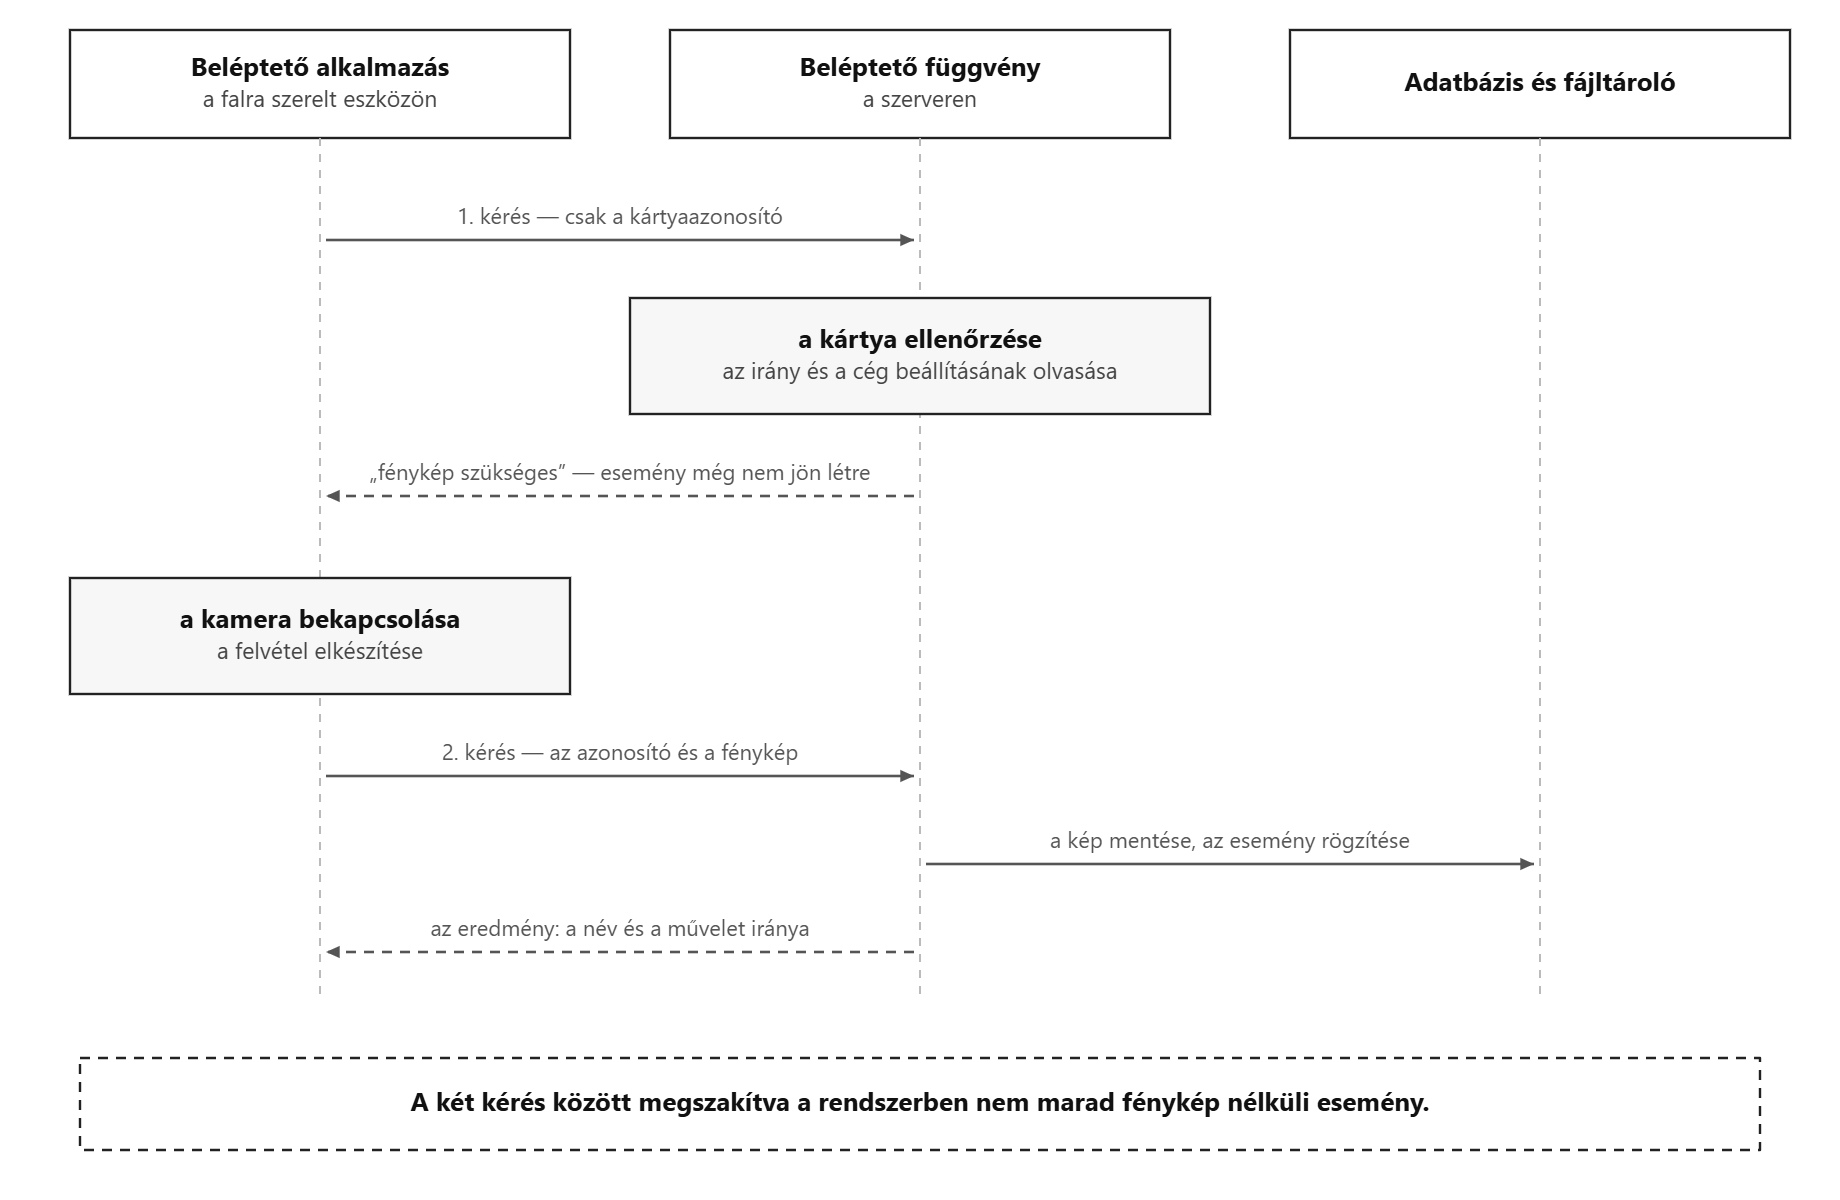
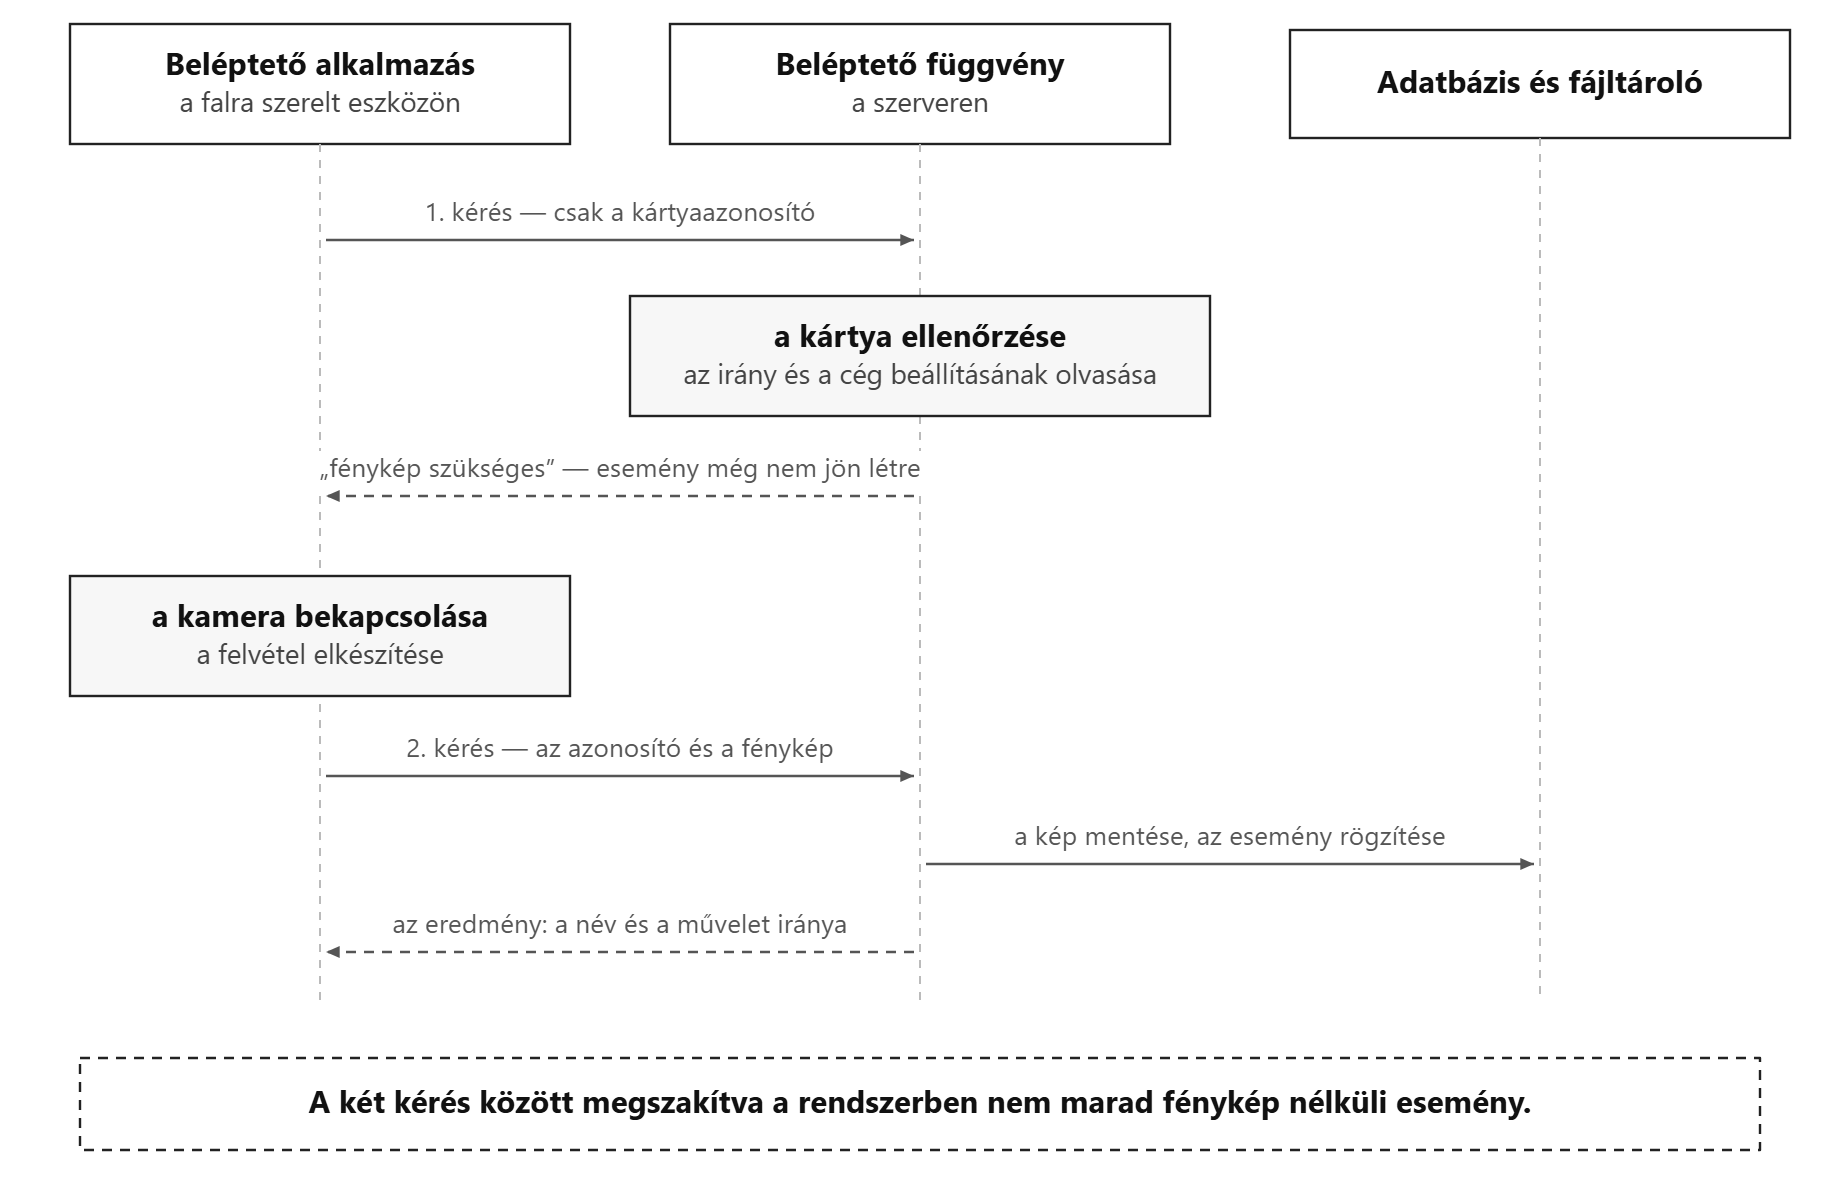
Refactor code structure for improved readability and maintainability

diff --git a/thesis/figures/abrak.html b/thesis/figures/abrak.html
@@ -63,9 +63,17 @@
 // pixelek viszont megmaradnak, így nyomtatásban is éles.
 const SCALE = 2
 
-const TITLE_H = 17   // a címsor sormagassága
-const LINE_H  = 15   // az alsorok sormagassága
-const PAD_Y   = 22   // a szövegblokk fölött-alatt hagyott hely
+// A feliratok nagyítása. A képek a dokumentumba 17 cm szélességre kicsinyítve
+// kerülnek be, ezért a betűméret NEM a képpont-méretén, hanem a képhez mért
+// arányán múlik: a rajz szélessége változatlan, csak a szöveg lesz nagyobb.
+// A dobozok magassága ezt automatikusan követi (lásd box()), a nyilak
+// végpontjai pedig a dobozok tényleges széléhez igazodnak.
+const FS  = 1.2
+const fpx = n => +(n * FS).toFixed(1)
+
+const TITLE_H = Math.round(17 * FS)   // a címsor sormagassága
+const LINE_H  = Math.round(15 * FS)   // az alsorok sormagassága
+const PAD_Y   = 22                    // a szövegblokk fölött-alatt hagyott hely
 
 function setup(id, w, h) {
   const cv = document.getElementById(id)
@@ -110,13 +118,13 @@ function box(x, cx, cy, w, h, title, lines = [], opts = {}) {
   x.textAlign = 'center'
   let y = cy - blockH / 2 + TITLE_H / 2
   x.fillStyle = '#111'
-  x.font = fit(x, title, inner, 'bold 13px system-ui, sans-serif', 10)
+  x.font = fit(x, title, inner, `bold ${fpx(13)}px system-ui, sans-serif`, 10)
   x.fillText(title, cx, y)
 
   x.fillStyle = '#444'
   y += TITLE_H / 2 + LINE_H / 2
   lines.forEach((s, i) => {
-    x.font = fit(x, s, inner, '11.5px system-ui, sans-serif', 9)
+    x.font = fit(x, s, inner, `${fpx(11.5)}px system-ui, sans-serif`, 9)
     x.fillText(s, cx, y + i * LINE_H)
   })
   return { l, t, w, h, cx, cy, r: l + w, b: t + h }
@@ -167,13 +175,17 @@ function path(x, pts, label, opts = {}) {
   }
 }
 
+// A felirat mögé tett fehér folt magassága a betűmérettel együtt nő, különben
+// a nagyobb szöveg kilógna a takarásból.
+const LABEL_H = Math.round(16 * FS)
+
 function flush(x) {
-  x.font = '11px system-ui, sans-serif'
+  x.font = `${fpx(11)}px system-ui, sans-serif`
   x.textAlign = 'center'
   for (const [t, mx, my] of PENDING) {
     const w = x.measureText(t).width
     x.fillStyle = '#fff'
-    x.fillRect(mx - w / 2 - 4, my - 8, w + 8, 16)
+    x.fillRect(mx - w / 2 - 4, my - LABEL_H / 2, w + 8, LABEL_H)
     x.fillStyle = '#666'
     x.fillText(t, mx, my)
   }
@@ -183,71 +195,81 @@ function flush(x) {
 // A rétegcímkék a bal margón állnak, ahol nyíl is futhat: ezért fehér
 // hátteret kapnak, és minden vonal után rajzoljuk őket.
 function layer(x, text, y) {
-  x.font = '11px system-ui, sans-serif'
+  x.font = `${fpx(11)}px system-ui, sans-serif`
   x.textAlign = 'left'
   const w = x.measureText(text).width
   x.fillStyle = '#fff'
-  x.fillRect(28, y - 8, w + 8, 16)
+  x.fillRect(28, y - LABEL_H / 2, w + 8, LABEL_H)
   x.fillStyle = '#888'
   x.fillText(text, 30, y)
 }
 
 // ── 1. ábra ────────────────────────────────────────────────────────────────
 ;(function () {
-  const W = 960, H = 620
+  const W = 960, H = 630
   const x = setup('c1', W, H)
 
-  // Kliens réteg
-  box(x, 160, 96, 240, 76, 'Beléptető alkalmazás',
-      ['kioszk, falra szerelve', 'NFC-olvasás, fénykép'])
-  box(x, 480, 96, 240, 76, 'Dolgozói alkalmazás',
-      ['mobiltelefon', 'PIN-belépés, kérelmek'])
-  box(x, 800, 96, 240, 76, 'Vezetői felület',
-      ['asztali böngésző', 'kimutatások, beállítások'])
+  // A dobozok magassága a bennük álló szöveg mennyiségéből adódik (lásd box()),
+  // ezért a nyilak végpontjai NEM beírt számok, hanem a visszakapott téglalapok
+  // szélei. Így a feliratok nagyításakor a rajz nem esik szét.
 
-  box(x, 160, 200, 220, 56, 'Helyi tároló (IndexedDB)',
-      ['névjegyzék + függő események'], { dashed: true })
+  // Kliens réteg
+  const kiosk  = box(x, 160, 100, 240, 76, 'Beléptető alkalmazás',
+                     ['kioszk, falra szerelve', 'NFC-olvasás, fénykép'])
+  const worker = box(x, 480, 100, 240, 76, 'Dolgozói alkalmazás',
+                     ['mobiltelefon', 'PIN-belépés, kérelmek'])
+  const admin  = box(x, 800, 100, 240, 76, 'Vezetői felület',
+                     ['asztali böngésző', 'kimutatások, beállítások'])
+
+  const local  = box(x, 160, 200, 220, 56, 'Helyi tároló (IndexedDB)',
+                     ['névjegyzék + függő események'], { dashed: true })
 
   // Háttérrendszer
-  x.strokeStyle = '#999'; x.lineWidth = 1; x.setLineDash([6, 4])
-  x.strokeRect(30, 296, W - 60, 208)
-  x.setLineDash([])
-
-  const fn   = box(x, 144, 358, 200, 86, 'Szerveroldali függvények',
+  // A „fénykép” nyílfeliratnak a két doboz KÖZÖTT kell elférnie, ezért a
+  // középső két doboz keskenyebb: így a felirat fehér háttere nem takarja el
+  // a szomszédos doboz keretét.
+  const fn   = box(x, 144, 382, 200, 86, 'Szerveroldali függvények',
                    ['beléptetés, dolgozói adatok', 'felhasználókezelés', 'levélküldés, összefoglaló'])
-  const file = box(x, 368, 358, 200, 86, 'Fájltároló', ['ellenőrző fényképek'])
-  const auth = box(x, 592, 358, 200, 86, 'Hitelesítés', ['vezetői belépés'])
-  const rt   = box(x, 816, 358, 200, 86, 'Valós idejű csatorna', ['adatváltozás továbbítása'])
+  const file = box(x, 398, 382, 176, 86, 'Fájltároló', ['ellenőrző fényképek'])
+  const auth = box(x, 594, 382, 176, 86, 'Hitelesítés', ['vezetői belépés'])
+  const rt   = box(x, 816, 382, 200, 86, 'Valós idejű csatorna', ['adatváltozás továbbítása'])
 
-  const db = box(x, 480, 452, 872, 56, 'PostgreSQL adatbázis',
+  const db = box(x, 480, 486, 872, 56, 'PostgreSQL adatbázis',
       ['sorszintű biztonság (cégek elkülönítése) · pg_cron ütemezés'], { bold: true })
 
-  // Kliens → háttérrendszer. A két derékszögű útvonal külön magasságban fut,
+  // A háttérrendszer kerete a benne álló dobozokhoz igazodik. Csak vonal, nem
+  // takar ki semmit, ezért a dobozok után is rajzolható.
+  const F = { t: fn.t - 14, b: db.b + 14 }
+  x.strokeStyle = '#999'; x.lineWidth = 1; x.setLineDash([6, 4])
+  x.strokeRect(30, F.t, W - 60, F.b - F.t)
+  x.setLineDash([])
+
+  // Kliens → háttérrendszer. A három derékszögű útvonal külön magasságban fut,
   // így sehol nem keresztezik egymást.
-  path(x, [[160, 134], [160, 172]])
-  // A felirat feljebb kerül: a szakasz közepén a „Háttérrendszer (Supabase)”
+  path(x, [[160, kiosk.b], [160, local.t]])
+  // A felirat lejjebb kerül: a szakasz közepén a „Háttérrendszer (Supabase)”
   // rétegcímke futna rá.
-  path(x, [[160, 228], [160, 315]], 'esemény', { labelDy: -26 })
-  path(x, [[480, 134], [480, 260], [200, 260], [200, 315]], 'kérelem')
-  path(x, [[760, 134], [760, 284], [230, 284], [230, 315]], 'lekérdezés')
-  path(x, [[850, 315], [850, 134]], 'értesítés', { dashed: true })
+  path(x, [[160, local.b], [160, fn.t]], 'esemény', { labelDy: 14 })
+  path(x, [[480, worker.b], [480, 276], [200, 276], [200, fn.t]], 'kérelem')
+  path(x, [[760, admin.b], [760, 300], [230, 300], [230, fn.t]], 'lekérdezés')
+  path(x, [[850, rt.t], [850, admin.b]], 'értesítés', { dashed: true })
 
   // Háttérrendszeren belül
-  path(x, [[fn.r, 358], [file.l, 358]], 'fénykép')
-  path(x, [[144, 401], [144, 424]])
-  path(x, [[592, 401], [592, 424]])
-  path(x, [[816, 424], [816, 401]], '', { dashed: true })
+  path(x, [[fn.r, fn.cy], [file.l, fn.cy]], 'fénykép')
+  path(x, [[fn.cx, fn.b], [fn.cx, db.t]])
+  path(x, [[auth.cx, auth.b], [auth.cx, db.t]])
+  path(x, [[rt.cx, db.t], [rt.cx, rt.b]], '', { dashed: true })
 
   // Külső szolgáltatások
-  box(x, 220, 566, 240, 46, 'Nyelvi modell (Gemini)', [], { dashed: true })
-  box(x, 520, 566, 240, 46, 'Levélküldő szolgáltatás', [], { dashed: true })
-  path(x, [[220, 504], [220, 543]], '', { dashed: true })
-  path(x, [[520, 504], [520, 543]], '', { dashed: true })
+  const llm  = box(x, 220, 582, 240, 46, 'Nyelvi modell (Gemini)', [], { dashed: true })
+  const mail = box(x, 520, 582, 240, 46, 'Levélküldő szolgáltatás', [], { dashed: true })
+  path(x, [[220, F.b], [220, llm.t]], '', { dashed: true })
+  path(x, [[520, F.b], [520, mail.t]], '', { dashed: true })
 
   flush(x)
   layer(x, 'Kliens oldal', 28)
-  layer(x, 'Háttérrendszer (Supabase)', 270)
-  layer(x, 'Külső szolgáltatások', 528)
+  layer(x, 'Háttérrendszer (Supabase)', (local.b + F.t) / 2)
+  layer(x, 'Külső szolgáltatások', (F.b + llm.t) / 2)
 })()
 
 // ── Segédek a folyamatábrákhoz ─────────────────────────────────────────────
@@ -258,10 +280,10 @@ function frame(x, l, t, w, h, label) {
   x.strokeStyle = '#aaa'; x.lineWidth = 1; x.setLineDash([6, 4])
   x.strokeRect(l, t, w, h)
   x.setLineDash([])
-  x.font = 'bold 11.5px system-ui, sans-serif'
+  x.font = `bold ${fpx(11.5)}px system-ui, sans-serif`
   x.textAlign = 'left'
   const tw = x.measureText(label).width
-  x.fillStyle = '#fff'; x.fillRect(l + 12, t - 8, tw + 10, 16)
+  x.fillStyle = '#fff'; x.fillRect(l + 12, t - LABEL_H / 2, tw + 10, LABEL_H)
   x.fillStyle = '#777'; x.fillText(label, l + 17, t)
 }
 
@@ -280,14 +302,14 @@ const MSGS = []
 function msg(x, fromX, toX, y, label, opts = {}) {
   const d = Math.sign(toX - fromX)
   path(x, [[fromX + d * 3, y], [toX - d * 3, y]], null, opts)
-  if (label) MSGS.push([label, (fromX + toX) / 2, y - 11])
+  if (label) MSGS.push([label, (fromX + toX) / 2, y - Math.round(11 * FS)])
 }
 function flushMsgs(x) {
   x.textAlign = 'center'
   for (const [t, mx, my] of MSGS) {
-    x.font = fit(x, t, 300, '11px system-ui, sans-serif', 8.5)
+    x.font = fit(x, t, 330, `${fpx(11)}px system-ui, sans-serif`, 8.5)
     const w = x.measureText(t).width
-    x.fillStyle = '#fff'; x.fillRect(mx - w / 2 - 4, my - 8, w + 8, 16)
+    x.fillStyle = '#fff'; x.fillRect(mx - w / 2 - 4, my - LABEL_H / 2, w + 8, LABEL_H)
     x.fillStyle = '#555'; x.fillText(t, mx, my)
   }
   MSGS.length = 0
@@ -334,31 +356,31 @@ function flushMsgs(x) {
 
   const L = 242, R = 717                 // a két oszlop középvonala
 
-  box(x, L, 122, 330, 48, 'Kártyaérintés')
-  box(x, L, 232, 330, 70, '① A kártya felismerése',
+  const a1 = box(x, L, 122, 330, 48, 'Kártyaérintés')
+  const a2 = box(x, L, 232, 330, 70, '① A kártya felismerése',
       ['helyi névjegyzék: azonosító → név'])
-  box(x, L, 347, 330, 70, '② A művelet iránya',
+  const a3 = box(x, L, 347, 330, 70, '② A művelet iránya',
       ['a helyben tárolt utolsó irány,', 'a függő eseményekkel korrigálva'])
-  box(x, L, 477, 330, 70, '③ Az esemény megőrzése',
+  const a4 = box(x, L, 477, 330, 70, '③ Az esemény megőrzése',
       ['helyi sor: client_event_id és', 'a rögzítés tényleges időpontja'])
 
-  box(x, R, 122, 330, 54, '④ Visszajátszás', ['sorrendtartó, egyenként'])
-  box(x, R, 232, 330, 54, 'Beléptető függvény', ['a szerveren'])
-  box(x, R, 347, 330, 54, 'Egyedi index', ['a client_event_id mezőn'])
-  box(x, 630, 477, 160, 56, 'Új azonosító', ['az esemény rögzül'])
-  box(x, 804, 477, 160, 56, 'Ütközés', ['már megvan — siker'])
+  const b1 = box(x, R, 122, 330, 54, '④ Visszajátszás', ['sorrendtartó, egyenként'])
+  const b2 = box(x, R, 232, 330, 54, 'Beléptető függvény', ['a szerveren'])
+  const b3 = box(x, R, 347, 330, 54, 'Egyedi index', ['a client_event_id mezőn'])
+  const b4 = box(x, 630, 477, 160, 56, 'Új azonosító', ['az esemény rögzül'])
+  const b5 = box(x, 804, 477, 160, 56, 'Ütközés', ['már megvan — siker'])
 
-  path(x, [[L, 146], [L, 197]])
-  path(x, [[L, 267], [L, 312]])
-  path(x, [[L, 382], [L, 442]])
+  path(x, [[L, a1.b], [L, a2.t]])
+  path(x, [[L, a2.b], [L, a3.t]])
+  path(x, [[L, a3.b], [L, a4.t]])
   // A két csoportot összekötő út a keretek KÖZÖTT fut fel, hogy egyetlen
   // dobozt se metsszen: a doboz széléről indul és a doboz széléig tart.
-  path(x, [[407, 477], [480, 477], [480, 122], [552, 122]])
+  path(x, [[a4.r, a4.cy], [480, a4.cy], [480, b1.cy], [b1.l, b1.cy]])
 
-  path(x, [[R, 149], [R, 205]])
-  path(x, [[R, 259], [R, 320]])
-  path(x, [[R, 374], [R, 420], [630, 420], [630, 449]], 'új')
-  path(x, [[R, 374], [R, 420], [804, 420], [804, 449]], 'ütközés')
+  path(x, [[R, b1.b], [R, b2.t]])
+  path(x, [[R, b2.b], [R, b3.t]])
+  path(x, [[R, b3.b], [R, 420], [630, 420], [630, b4.t]], 'új')
+  path(x, [[R, b3.b], [R, 420], [804, 420], [804, b5.t]], 'ütközés')
 
   flush(x)
 
@@ -381,14 +403,14 @@ function flushMsgs(x) {
     x.strokeRect(l, t, w, h)
     x.beginPath(); x.moveTo(l, t + 26); x.lineTo(l + w, t + 26); x.stroke()
     x.textAlign = 'center'; x.fillStyle = '#111'
-    x.font = fit(x, title, w - 20, 'bold 12.5px system-ui, sans-serif', 10)
+    x.font = fit(x, title, w - 20, `bold ${fpx(12.5)}px system-ui, sans-serif`, 10)
     x.fillText(title, cx, t + 13)
     x.textAlign = 'left'
     cols.forEach((c, i) => {
       const key = c.startsWith('#')
       const txt = key ? c.slice(1) : c
       x.fillStyle = key ? '#111' : '#444'
-      x.font = fit(x, txt, w - 20, (key ? 'bold ' : '') + '11px ui-monospace, Consolas, monospace', 8.5)
+      x.font = fit(x, txt, w - 20, (key ? 'bold ' : '') + `${fpx(11)}px ui-monospace, Consolas, monospace`, 8.5)
       x.fillText(txt, l + 10, t + 26 + 12 + i * rowH)
     })
     return { l, t, w, h, cx, cy, r: l + w, b: t + h }
@@ -421,7 +443,7 @@ function flushMsgs(x) {
   link(absences, notifications, 'trigger')
   flush(x)
 
-  x.font = '11px system-ui, sans-serif'; x.fillStyle = '#666'; x.textAlign = 'left'
+  x.font = `${fpx(11)}px system-ui, sans-serif`; x.fillStyle = '#666'; x.textAlign = 'left'
   x.fillText('Minden tábla hordozza a company_id oszlopot — erre épül a cégek elkülönítése.', 30, 490)
   x.fillText('A → jel idegen kulcsot jelöl.', 30, 510)
 })()
